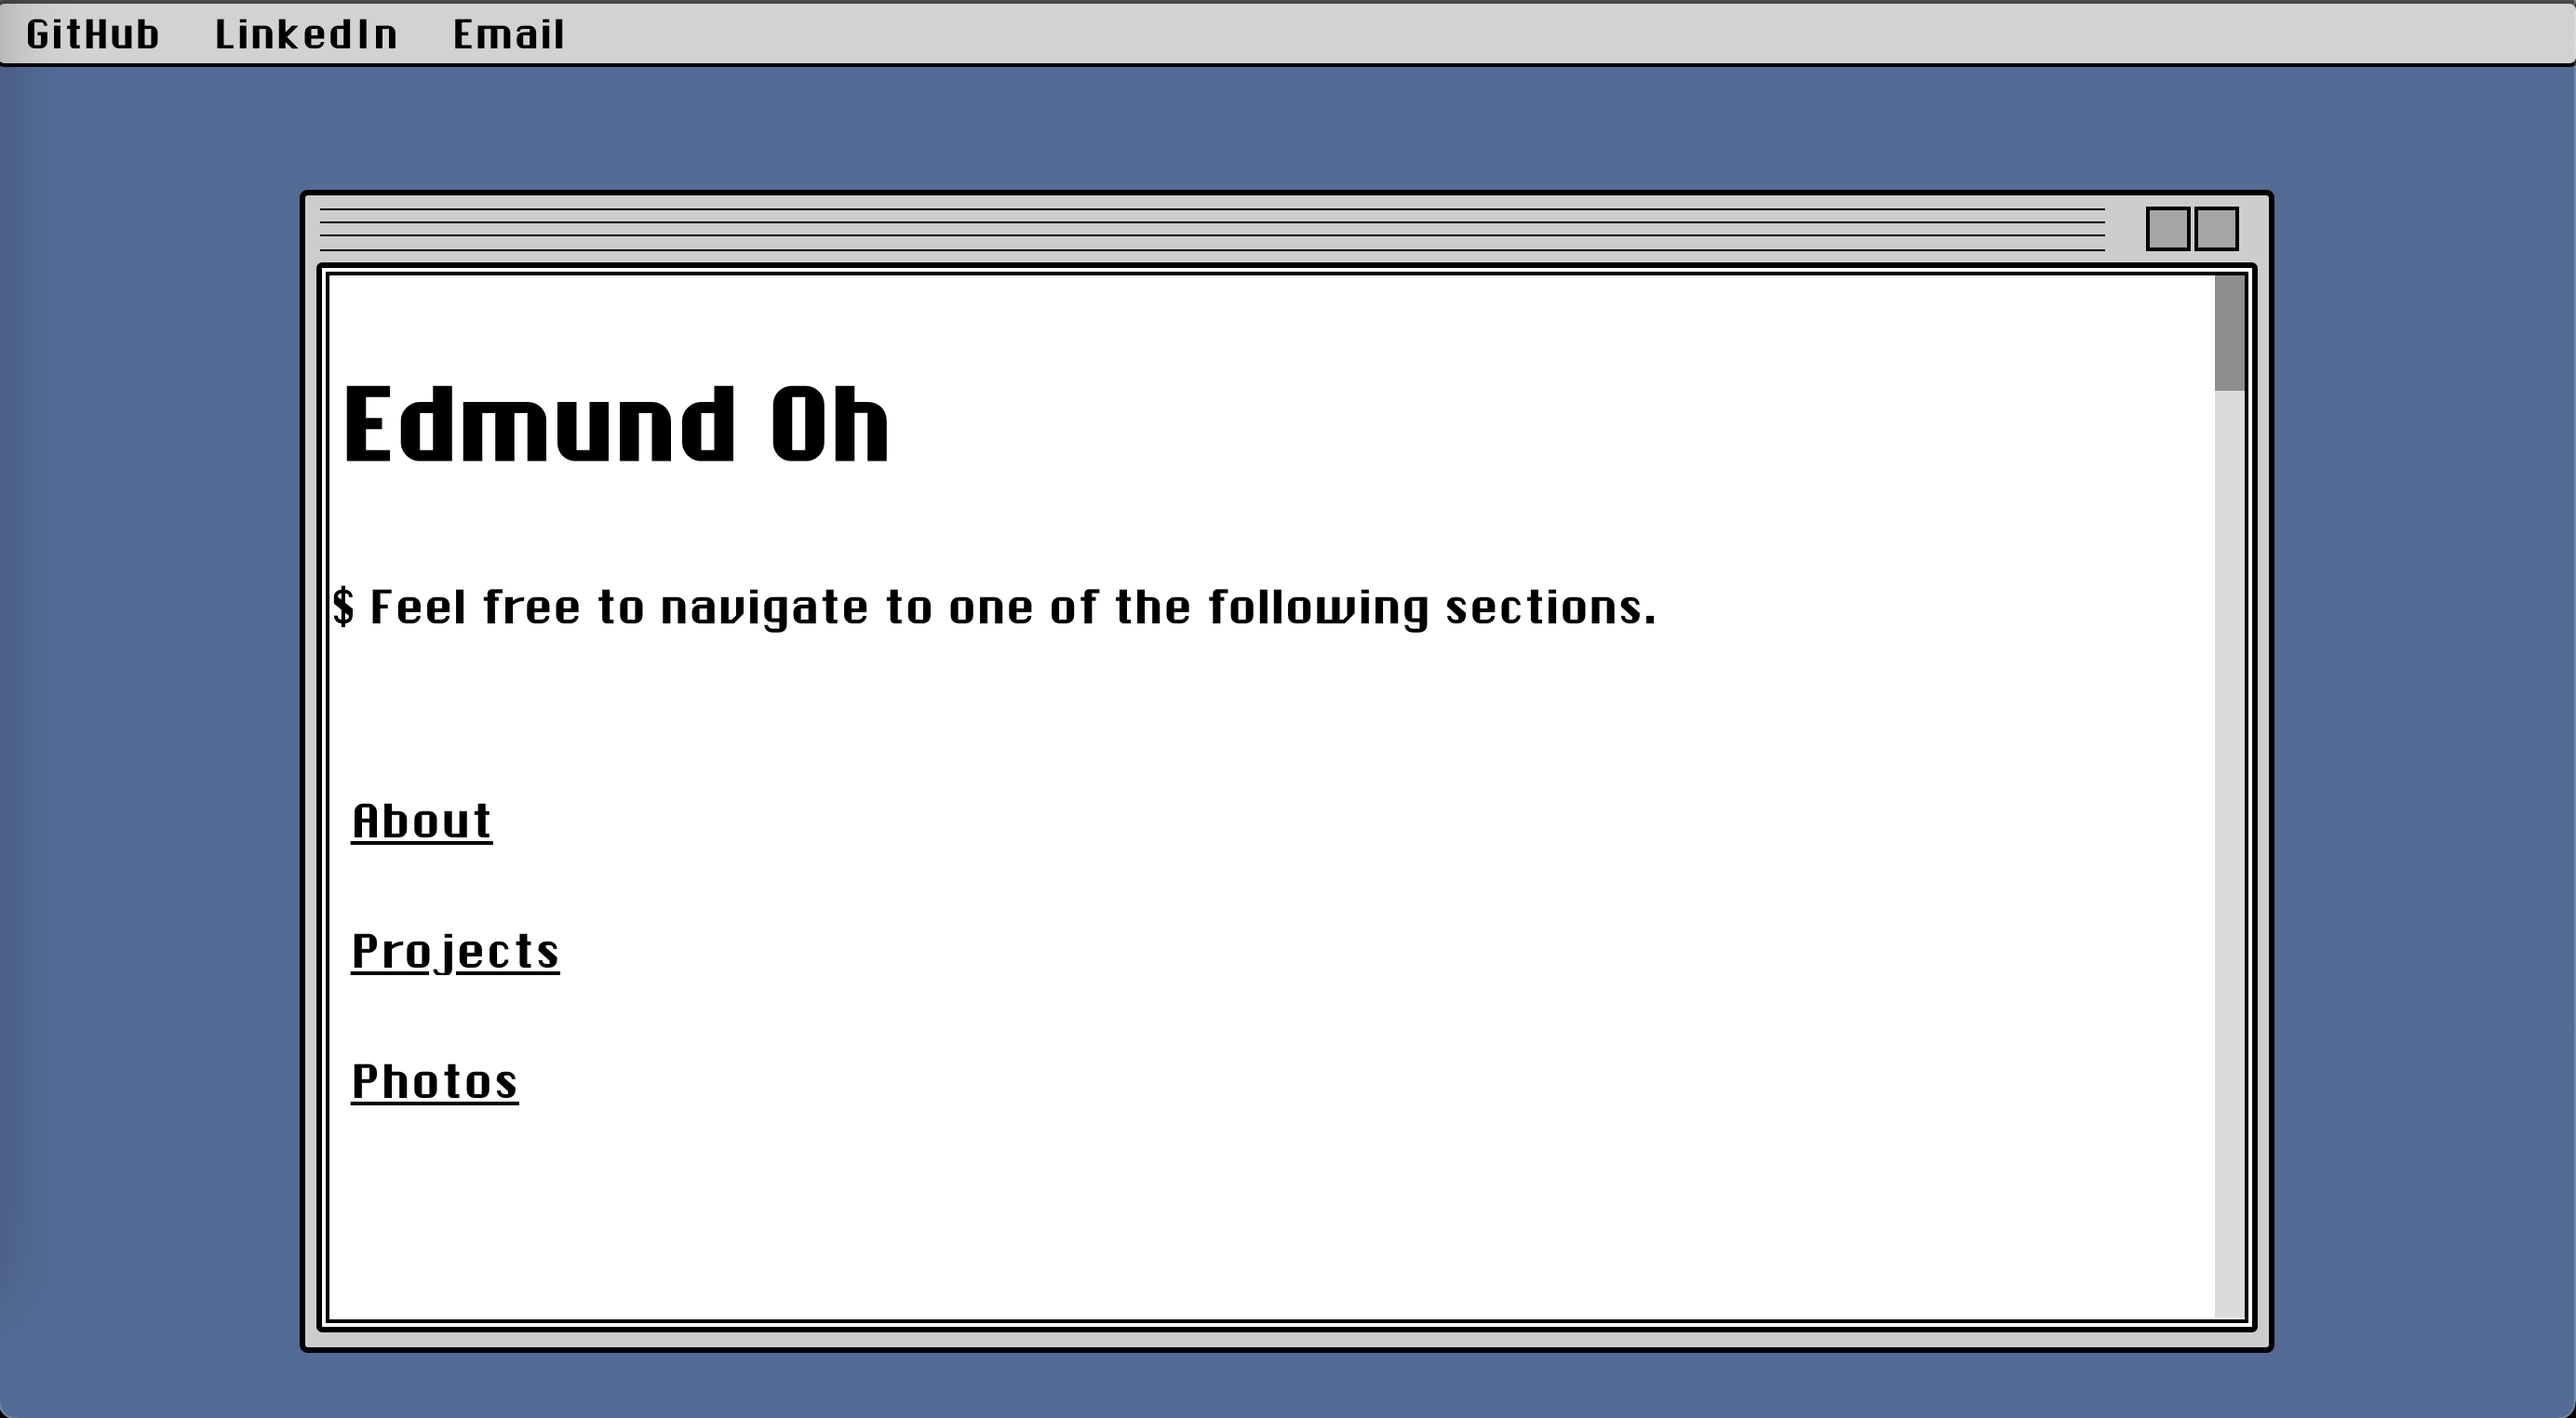
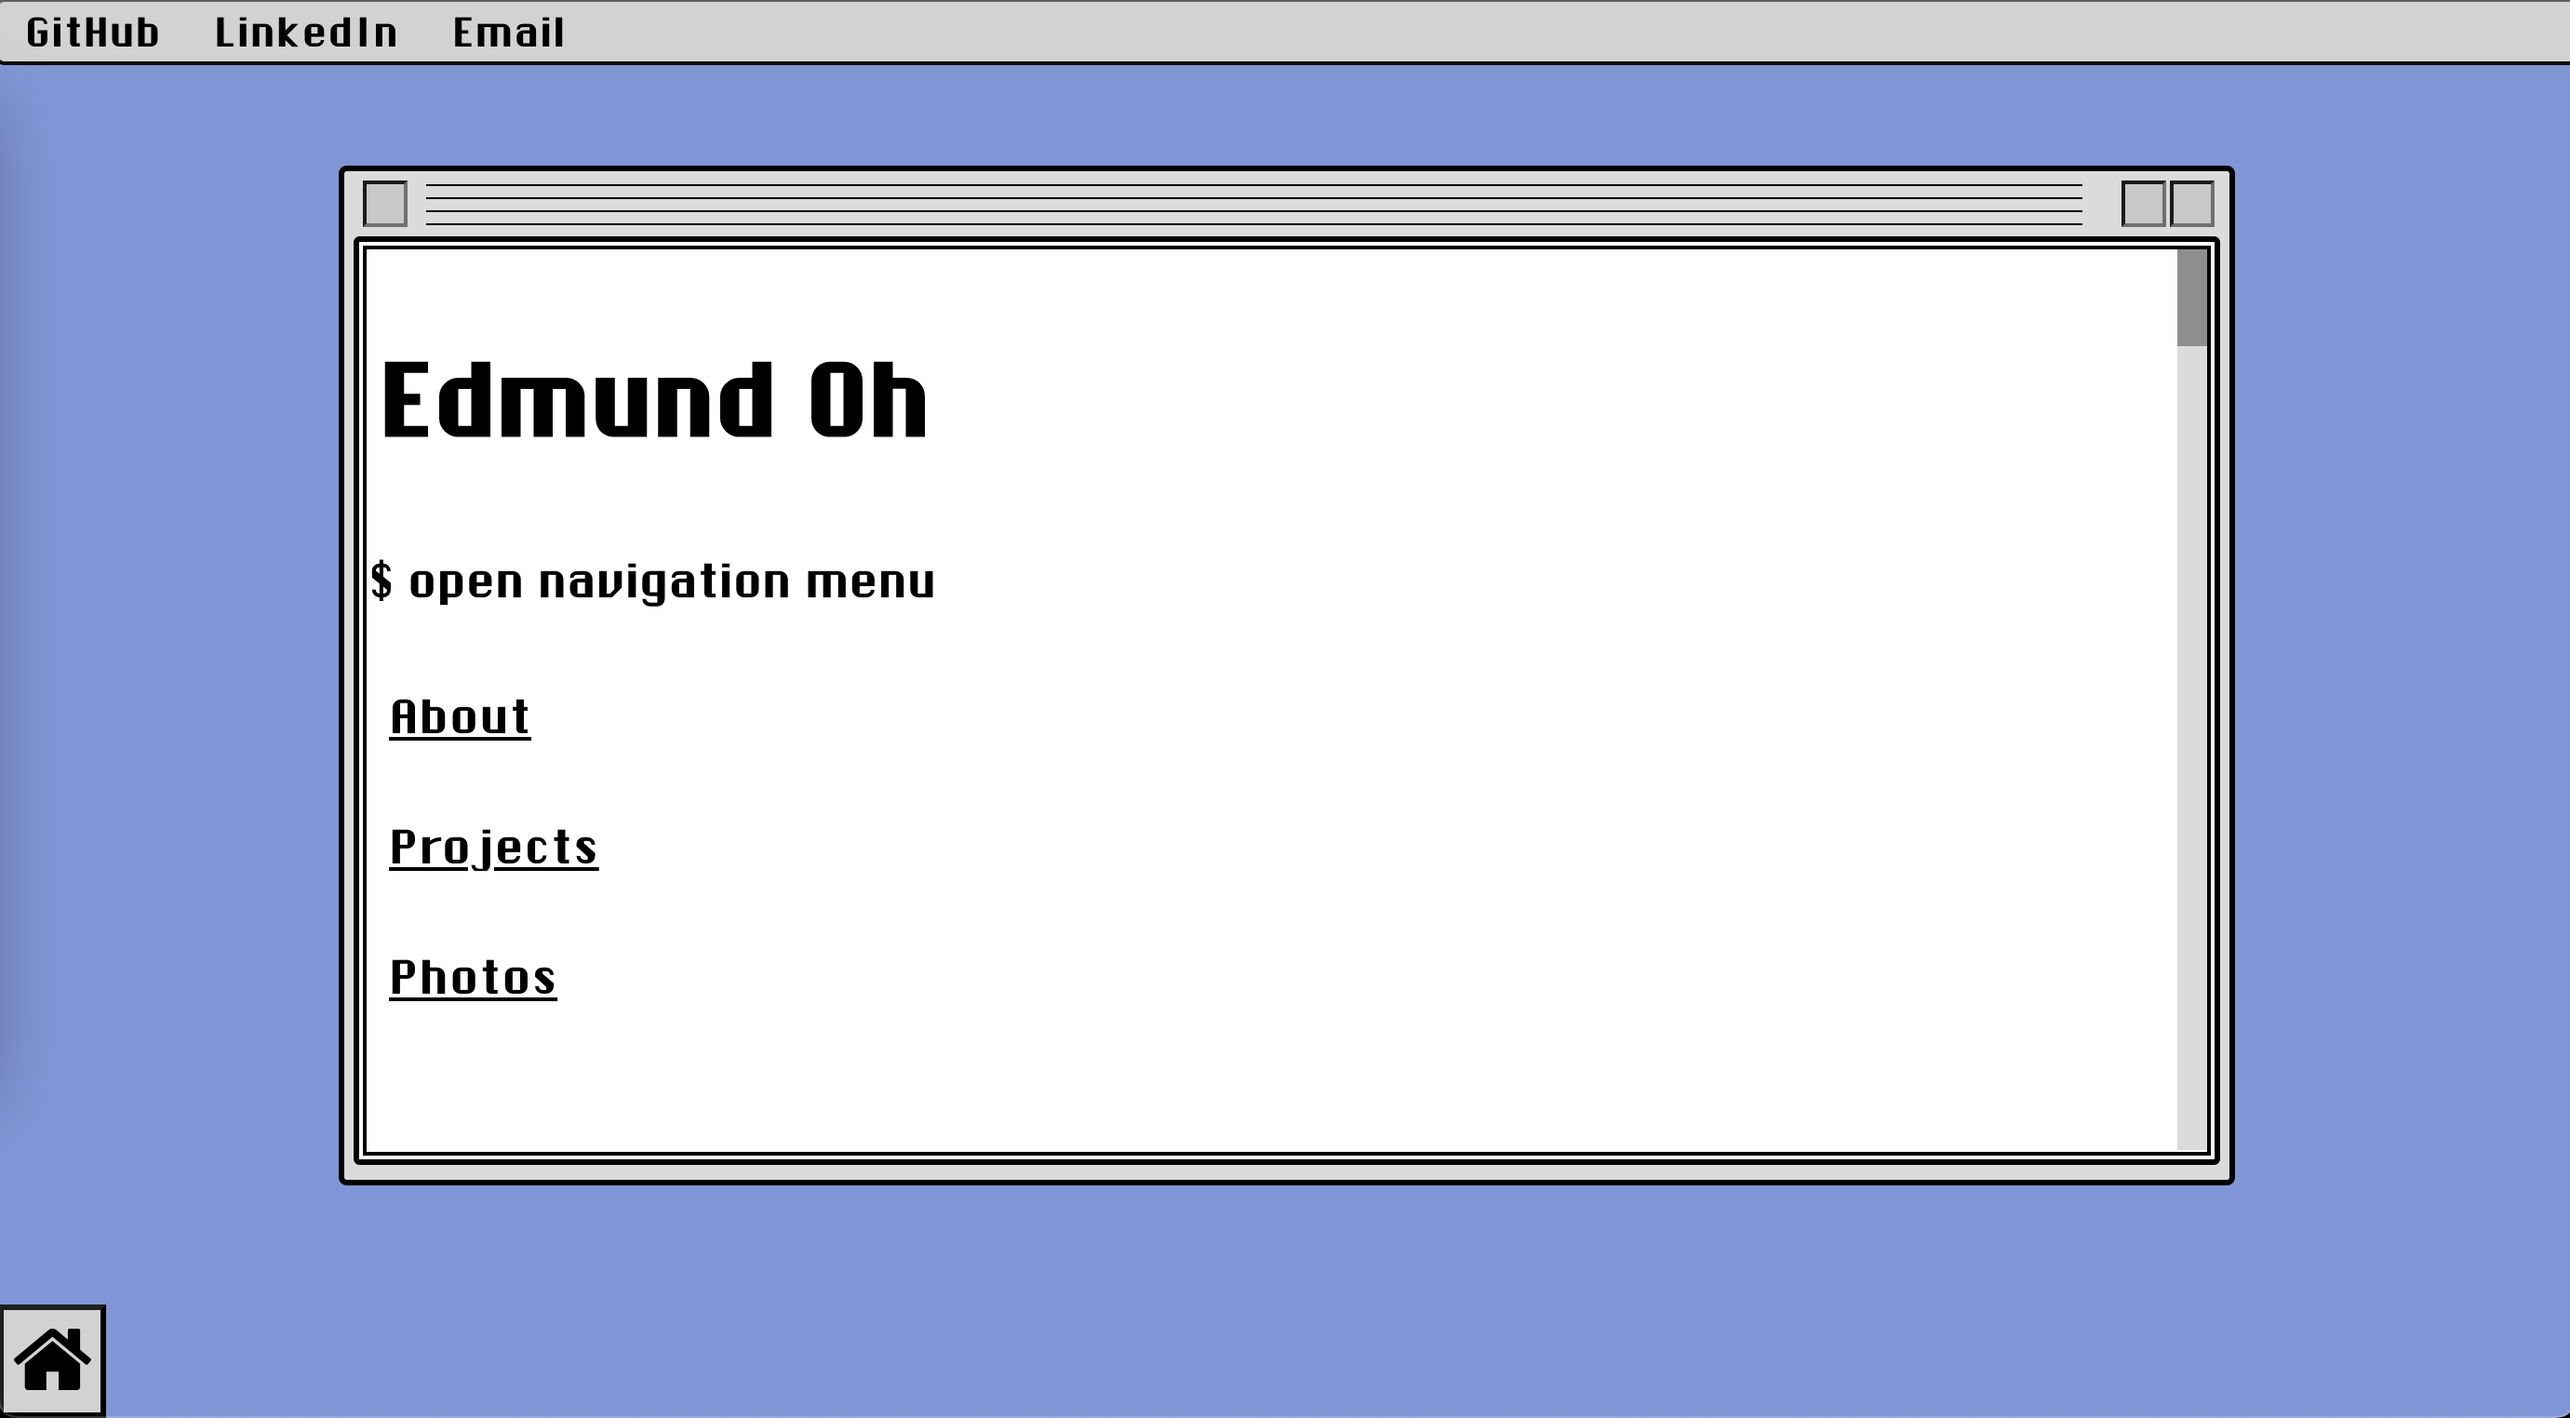
colour change

diff --git a/src/css/About.css b/src/css/About.css
@@ -17,7 +17,7 @@
 
 .about-header h1
 {
-  color: rgba(34, 0, 170, 0.718);
+  color: rgb(36, 94, 253);
   font-family: "Chicago";
   font-size: 32px;
 }
@@ -51,7 +51,7 @@
 
 .cat-highlight
 {
-  color:rgba(34, 0, 170, 0.718);
+  color:rgb(36, 94, 253);
 }
 
 .about-border

diff --git a/src/css/Projects.css b/src/css/Projects.css
@@ -44,7 +44,7 @@
 {
     font-family: "Chicago";
     font-size: 28px;
-    color: rgba(34, 0, 170, 0.718);
+    color: rgb(36, 94, 253);
     text-align: center;
     margin: 8px;
 }

diff --git a/src/App.css b/src/App.css
@@ -12,7 +12,7 @@
 /*GENERAL BACKGROUND*/
 body
 {
-  background: rgba(88, 100, 173, 0.718);
+  background: rgba(83, 116, 209, 0.752);
   overflow-y:hidden;
 }
 
